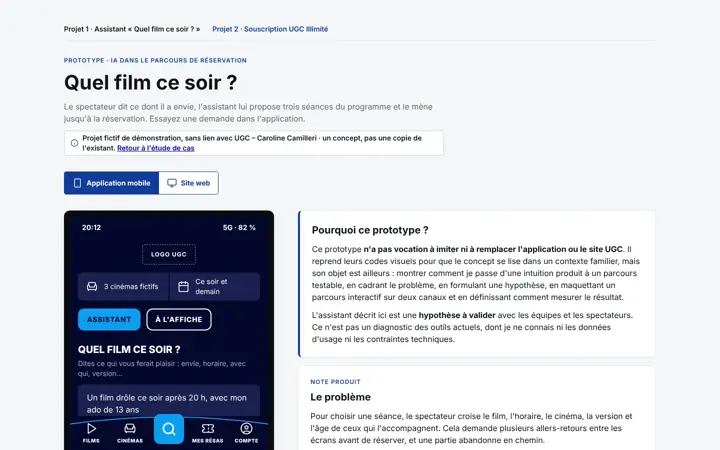
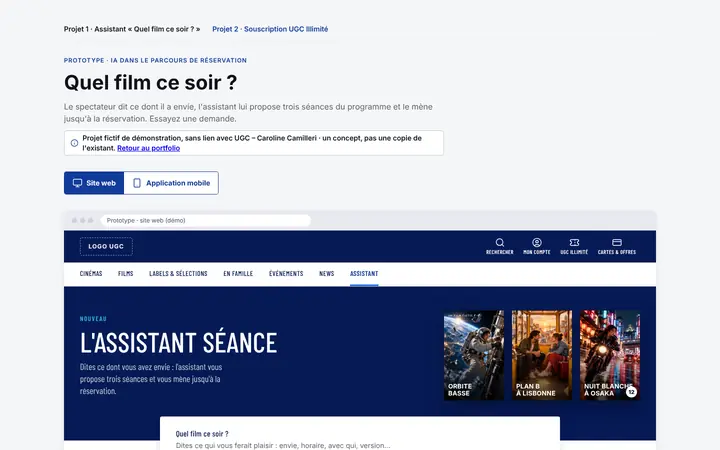
Démo « Quel film ce soir ? » : vue site web en premier et par défaut
Onglets inversés (Site web, puis Application mobile) ; la page s'ouvre
sur la vue site web, la vue mobile reste accessible par l'onglet ou
l'adresse #app. Vignette de la carte UGC refaite sur la vue site web.

Claude-Session: https://claude.ai/code/session_016JEPmqZz9GtzkVWJPjUqnz

diff --git a/projets/ugc/index.html b/projets/ugc/index.html
@@ -484,19 +484,19 @@ ul.clean{margin:0; padding-left:20px; display:grid; gap:var(--space-2)}
   <header class="page-head">
     <p class="eyebrow">Prototype · IA dans le parcours de réservation</p>
     <h1>Quel film ce soir&nbsp;?</h1>
-    <p class="lede">Le spectateur dit ce dont il a envie, l'assistant lui propose trois séances du programme et le mène jusqu'à la réservation. Essayez une demande dans l'application.</p>
+    <p class="lede">Le spectateur dit ce dont il a envie, l'assistant lui propose trois séances du programme et le mène jusqu'à la réservation. Essayez une demande.</p>
     <p class="disclaimer"><svg class="icon icon-sm" aria-hidden="true"><use href="#i-info"/></svg><span>Projet fictif de démonstration, sans lien avec UGC – Caroline Camilleri · un concept, pas une copie de l'existant. <a href="../../fiche-ugc.html">Retour au portfolio</a></span></p>
   </header>
 
   <div class="modes" role="group" aria-label="Canal affiché dans la démo">
-    <button type="button" class="mode" data-mode="app" aria-pressed="true"><svg class="icon" aria-hidden="true"><use href="#i-phone"/></svg>Application mobile</button>
-    <button type="button" class="mode" data-mode="web" aria-pressed="false"><svg class="icon" aria-hidden="true"><use href="#i-monitor"/></svg>Site web</button>
+    <button type="button" class="mode" data-mode="web" aria-pressed="true"><svg class="icon" aria-hidden="true"><use href="#i-monitor"/></svg>Site web</button>
+    <button type="button" class="mode" data-mode="app" aria-pressed="false"><svg class="icon" aria-hidden="true"><use href="#i-phone"/></svg>Application mobile</button>
   </div>
 
-  <div class="layout" id="layout">
+  <div class="layout is-web" id="layout">
     <!-- ---------- Application ---------- -->
-    <section class="device" id="device" aria-label="Démonstration">
-      <div class="screen" id="screen">
+    <section class="device is-web" id="device" aria-label="Site web, démonstration">
+      <div class="screen is-web" id="screen">
         <div class="browser" aria-hidden="true"><span class="dots"><i></i><i></i><i></i></span><span class="url">Prototype · site web (démo)</span></div>
         <header class="web-header">
           <div class="web-top">
@@ -622,7 +622,7 @@ ul.clean{margin:0; padding-left:20px; display:grid; gap:var(--space-2)}
       <section class="panel">
         <h2>Comment fonctionne la démo</h2>
         <p>La demande est interprétée par un moteur de règles local, exécuté dans le navigateur : il repère l'envie, le jour, l'horaire, la version, le public et le cinéma, puis classe les séances du programme fictif. Aucune donnée n'est envoyée à un service externe. En production, ce moteur servirait de repli si le modèle d'IA ne répond pas.</p>
-        <p>Le sélecteur « Application mobile | Site web » montre le même assistant sur les deux canaux : un seul moteur et un seul parcours, deux interfaces adaptées (écran plein sur mobile, fenêtre de réservation sur le web).</p>
+        <p>Le sélecteur « Site web | Application mobile » montre le même assistant sur les deux canaux : un seul moteur et un seul parcours, deux interfaces adaptées (écran plein sur mobile, fenêtre de réservation sur le web).</p>
         <p>Après « Réserver », la démo simule la suite du parcours : nombre de places, choix des sièges sur un plan de salle fictif, récapitulatif puis confirmation avec un numéro fictif. Les tarifs et le paiement ne sont pas simulés.</p>
       </section>
 
@@ -691,7 +691,7 @@ function setMode(m){
   ["layout","device","screen"].forEach(id=>$(id).classList.toggle("is-web",web));
   $("device").setAttribute("aria-label",web?"Site web, démonstration":"Application mobile, démonstration");
   document.querySelectorAll(".mode").forEach(b=>b.setAttribute("aria-pressed",b.dataset.mode===m));
-  try{ history.replaceState(null,"",web?"#web":location.pathname+location.search); }catch(e){}
+  try{ history.replaceState(null,"",web?location.pathname+location.search:"#app"); }catch(e){}
 }
 document.querySelectorAll(".mode").forEach(b=>b.onclick=()=>setMode(b.dataset.mode));
 document.addEventListener("keydown",e=>{ if(e.key==="Escape" && bk && isWeb()) closeBooking(); });
@@ -1042,7 +1042,7 @@ function run(){ const q=$("q").value.trim(); if(!q) return; render(localPick(q))
 $("askForm").addEventListener("submit",e=>{e.preventDefault(); run();});
 $("q").addEventListener("keydown",e=>{ if(e.key==="Enter"&&!e.shiftKey){e.preventDefault(); run();} });
 render(localPick($("q").value));
-if(location.hash==="#web") setMode("web");
+setMode(location.hash==="#app"?"app":"web");
 })();
 </script>
 </body>
